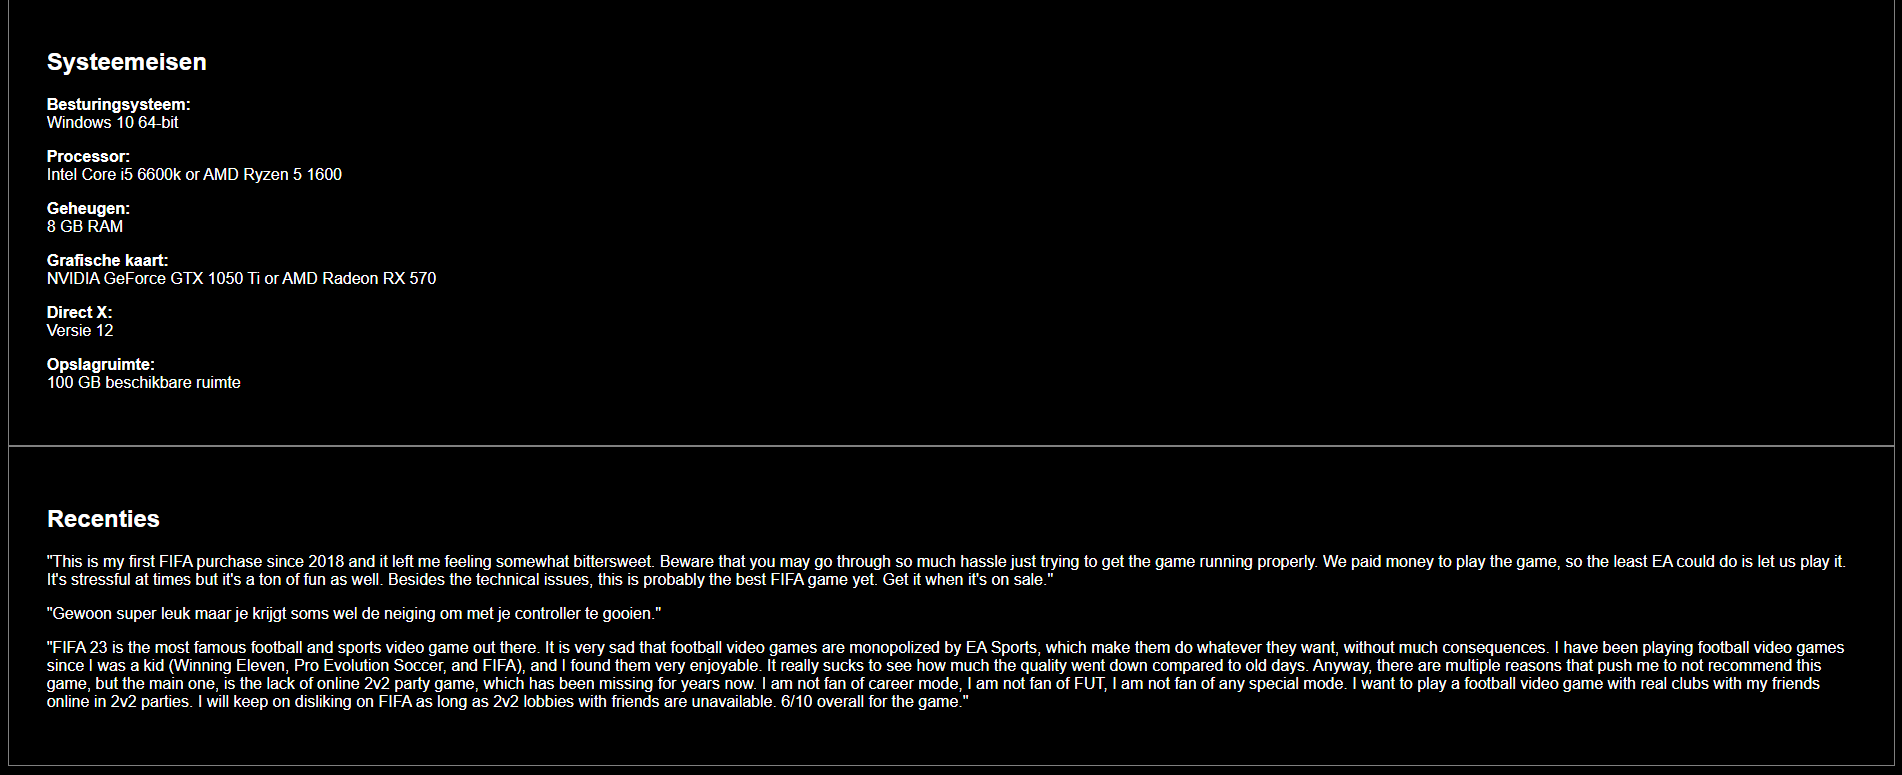
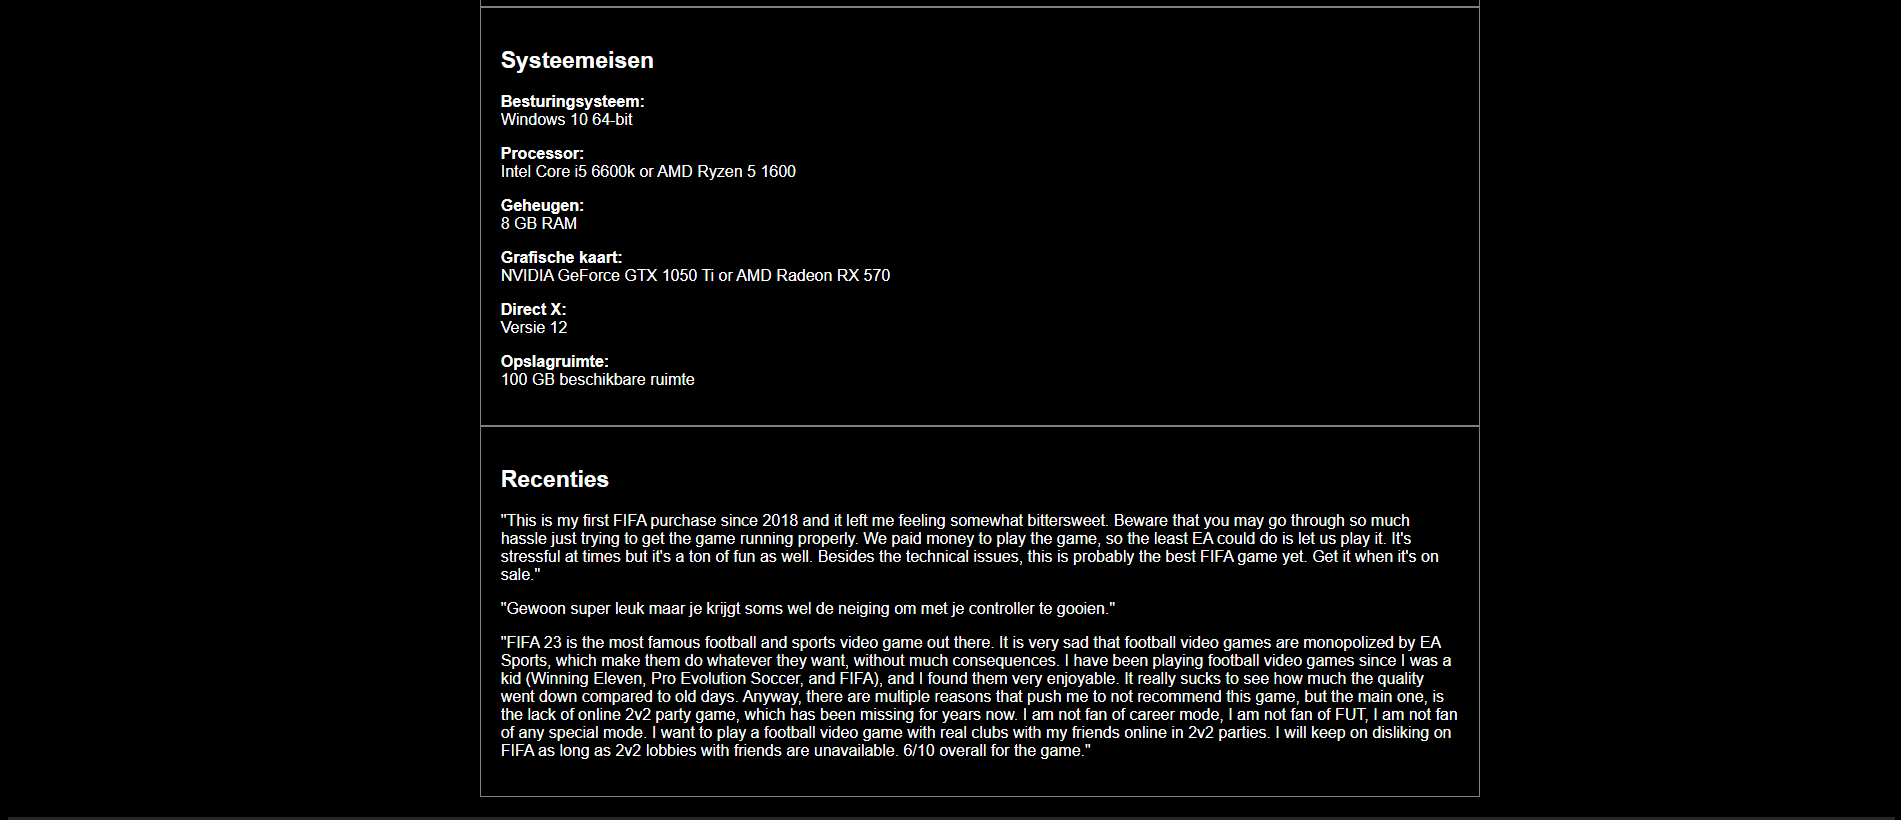
update readme + adjusted main in html/css

diff --git a/css/style-game.css b/css/style-game.css
@@ -5,6 +5,10 @@
     color: white
 }
 
+h2 {
+    font-size: 23px;
+}
+
 nav {
     background-color:  #272727;
     overflow: hidden;
@@ -36,6 +40,9 @@ nav a#gamepick {
 main {
     margin-top: 20px;
     margin-bottom: 20px;
+    width: 1000px;
+    padding-left: 25%;
+    padding-right: 25%;
 }
 
 section {
@@ -68,7 +75,7 @@ li {
 }
 
 img {
-    height: 200px;
+    height: 100px;
     border: 2px solid gray;
     margin: 20px
 }

diff --git a/README.md b/README.md
@@ -25,6 +25,7 @@
     alt="screenshot van Opdracht 3"
     title="recept"
     style="display: inline-block; margin: 0 auto; max-width: 50px">
+    
 <img
     src="/screenshots/game-catalog-twee.png" 
     alt="screenshot van Opdracht 3"
